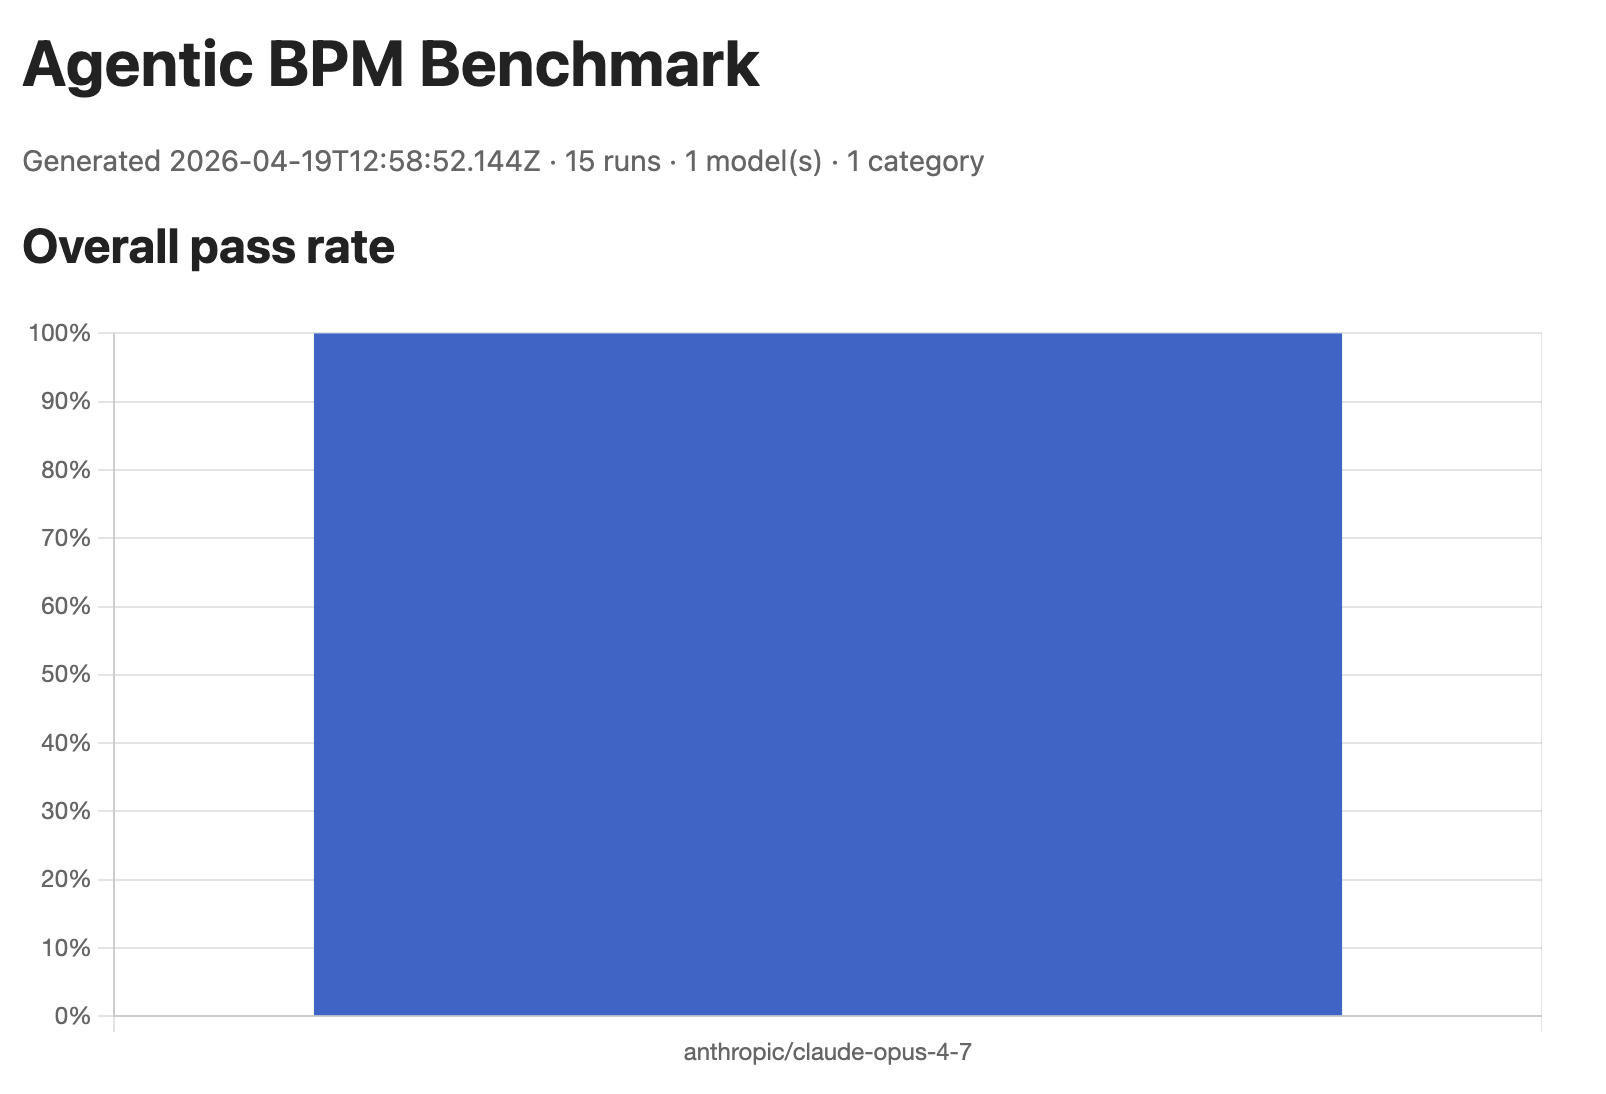
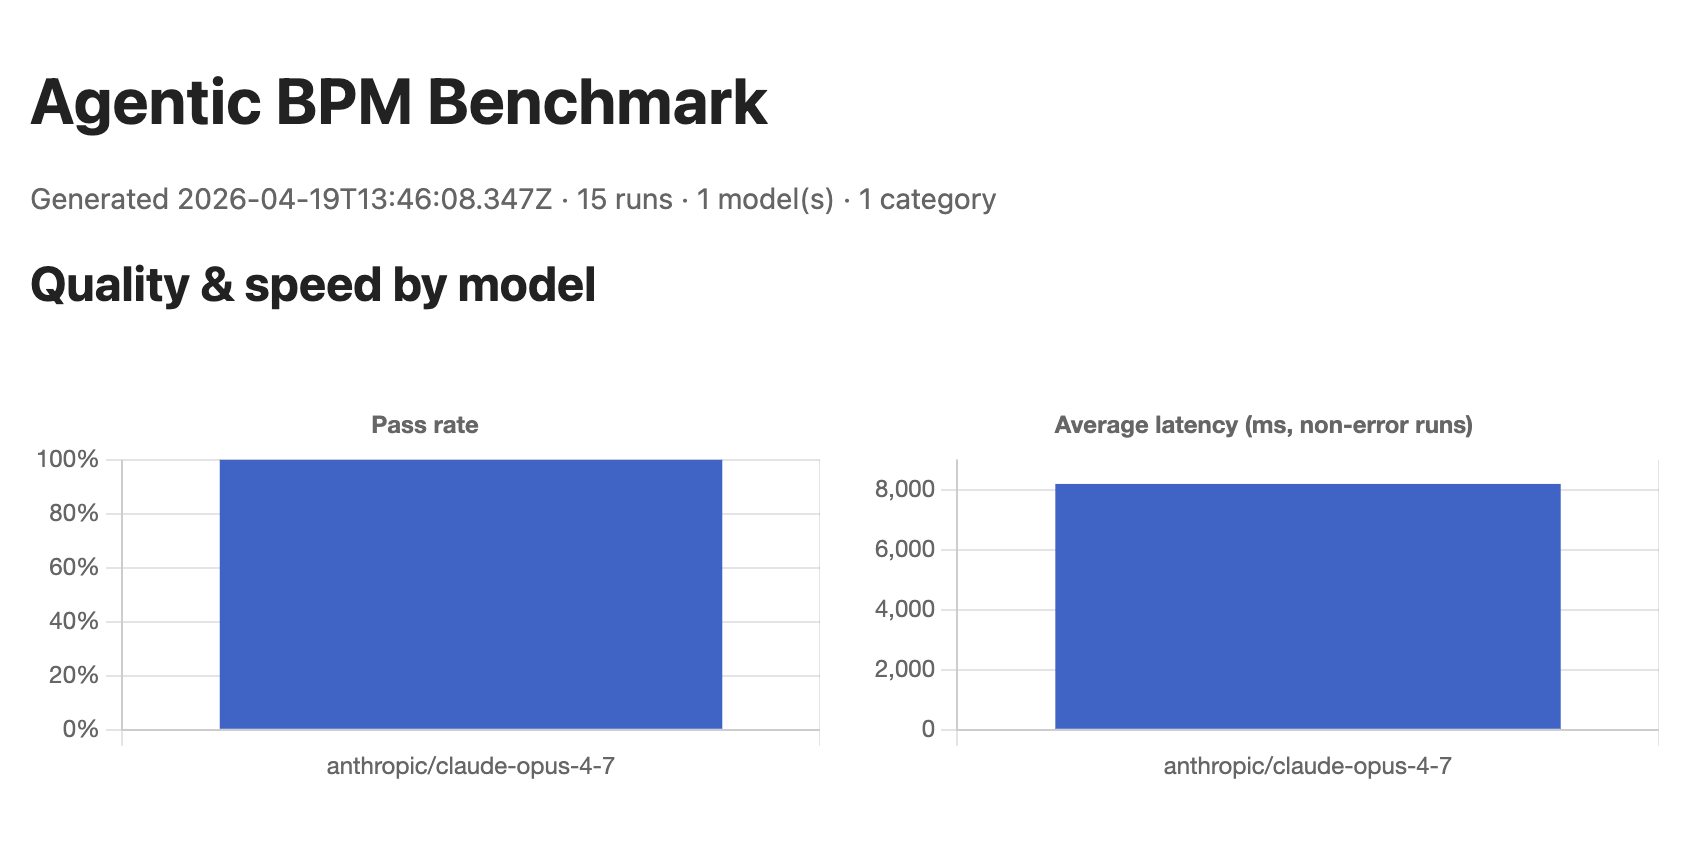
Latency and token stats added to benchmark.

diff --git a/src/report.ts b/src/report.ts
@@ -1,17 +1,33 @@
 import { writeFile } from "node:fs/promises";
 import type { RunResult } from "./runner.js";
 
+export interface LatencyStats {
+  avgMs: number;
+  p50Ms: number;
+  maxMs: number;
+  sampleSize: number; // successful (non-error) runs only
+}
+
 export interface OverallRow {
   model: string;
-  passRate: number;
-  avgLatencyMs: number;
   count: number;
+  passRate: number;
+  errorCount: number;
+  latency: LatencyStats;
+  totalInputTokens: number;
+  totalOutputTokens: number;
+  avgTokensPerCase: { input: number; output: number };
 }
 
 export interface CategoryRow {
   category: string;
   categoryName: string;
-  rows: Array<{ model: string; passRate: number; count: number }>;
+  rows: Array<{
+    model: string;
+    count: number;
+    passRate: number;
+    latency: LatencyStats;
+  }>;
 }
 
 export interface Summary {
@@ -37,24 +53,58 @@ export function summarize(results: RunResult[]): Summary {
     byCategory.set(r.category.id, catBucket);
   }
 
-  const overall: OverallRow[] = [...byModel.entries()].map(([model, rs]) => ({
-    model,
-    passRate: rs.filter((r) => r.pass).length / rs.length,
-    avgLatencyMs: rs.reduce((s, r) => s + r.latencyMs, 0) / rs.length,
-    count: rs.length,
-  }));
+  const overall: OverallRow[] = [...byModel.entries()].map(([model, rs]) => {
+    const successful = rs.filter((r) => !r.error);
+    const errors = rs.length - successful.length;
+    const totalInput = rs.reduce((s, r) => s + (r.inputTokens ?? 0), 0);
+    const totalOutput = rs.reduce((s, r) => s + (r.outputTokens ?? 0), 0);
+    return {
+      model,
+      count: rs.length,
+      passRate: rs.filter((r) => r.pass).length / rs.length,
+      errorCount: errors,
+      latency: latencyStats(successful.map((r) => r.latencyMs)),
+      totalInputTokens: totalInput,
+      totalOutputTokens: totalOutput,
+      avgTokensPerCase: {
+        input: rs.length ? totalInput / rs.length : 0,
+        output: rs.length ? totalOutput / rs.length : 0,
+      },
+    };
+  });
 
   const perCategory: CategoryRow[] = [...byCategory.entries()].map(([id, bucket]) => ({
     category: id,
     categoryName: bucket.name,
-    rows: [...bucket.byModel.entries()].map(([model, rs]) => ({
-      model,
-      passRate: rs.filter((r) => r.pass).length / rs.length,
-      count: rs.length,
-    })),
+    rows: [...bucket.byModel.entries()].map(([model, rs]) => {
+      const successful = rs.filter((r) => !r.error);
+      return {
+        model,
+        count: rs.length,
+        passRate: rs.filter((r) => r.pass).length / rs.length,
+        latency: latencyStats(successful.map((r) => r.latencyMs)),
+      };
+    }),
   }));
 
   return { overall, perCategory };
+}
+
+function latencyStats(samplesMs: number[]): LatencyStats {
+  if (samplesMs.length === 0) {
+    return { avgMs: 0, p50Ms: 0, maxMs: 0, sampleSize: 0 };
+  }
+  const sorted = [...samplesMs].sort((a, b) => a - b);
+  const avg = sorted.reduce((s, v) => s + v, 0) / sorted.length;
+  const p50 = percentile(sorted, 0.5);
+  const max = sorted[sorted.length - 1] ?? 0;
+  return { avgMs: avg, p50Ms: p50, maxMs: max, sampleSize: sorted.length };
+}
+
+function percentile(sorted: number[], p: number): number {
+  if (sorted.length === 0) return 0;
+  const idx = Math.min(sorted.length - 1, Math.floor(p * sorted.length));
+  return sorted[idx] ?? 0;
 }
 
 export async function writeJsonResults(path: string, results: RunResult[]): Promise<void> {
@@ -80,6 +130,8 @@ function renderHtml(results: RunResult[], summary: Summary): string {
   h1 { margin-top: 0; }
   .meta { color: #666; font-size: .9rem; }
   .chart { max-width: 760px; margin: 1.25rem 0; }
+  .charts-2col { display: grid; grid-template-columns: 1fr 1fr; gap: 1.5rem; }
+  @media (max-width: 820px) { .charts-2col { grid-template-columns: 1fr; } }
   table { border-collapse: collapse; width: 100%; font-size: .88rem; margin: 1rem 0; }
   th, td { border: 1px solid #ddd; padding: .4rem .55rem; text-align: left; vertical-align: top; }
   th { background: #f4f4f6; position: sticky; top: 0; }
@@ -88,17 +140,50 @@ function renderHtml(results: RunResult[], summary: Summary): string {
   tr.err  td:first-child { color: #a07000; font-weight: 600; }
   details > summary { cursor: pointer; color: #2255aa; }
   pre { white-space: pre-wrap; background: #f7f7f9; padding: .5rem; border-radius: 4px; margin: .25rem 0; font-size: .78rem; }
+  .num { text-align: right; font-variant-numeric: tabular-nums; }
 </style>
 </head>
 <body>
 <h1>Agentic BPM Benchmark</h1>
 <p class="meta">Generated ${escapeHtml(new Date().toISOString())} · ${results.length} runs · ${models.length} model(s) · ${categoryCount} categor${categoryCount === 1 ? "y" : "ies"}</p>
 
-<h2>Overall pass rate</h2>
-<div class="chart"><canvas id="overall"></canvas></div>
+<h2>Quality &amp; speed by model</h2>
+<div class="charts-2col">
+  <div class="chart"><canvas id="overall"></canvas></div>
+  <div class="chart"><canvas id="latency"></canvas></div>
+</div>
 
-<h2>Pass rate per category</h2>
-<div class="chart"><canvas id="perCategory"></canvas></div>
+<h2>Quality vs. speed</h2>
+<p class="meta">Each point is one model. Top-left is best (high pass rate, low latency). Latency excludes error rows.</p>
+<div class="chart"><canvas id="scatter"></canvas></div>
+
+<h2>Per category</h2>
+<div class="charts-2col">
+  <div class="chart"><canvas id="perCategoryPass"></canvas></div>
+  <div class="chart"><canvas id="perCategoryLatency"></canvas></div>
+</div>
+
+<h2>Model summary</h2>
+<table>
+<thead><tr>
+  <th>Model</th><th class="num">Pass rate</th><th class="num">Errors</th>
+  <th class="num">Avg ms</th><th class="num">p50 ms</th><th class="num">Max ms</th>
+  <th class="num">Tokens in (total)</th><th class="num">Tokens out (total)</th>
+  <th class="num">Avg tokens/case (in/out)</th>
+</tr></thead>
+<tbody>
+${summary.overall.map((row) => `<tr>
+  <td>${escapeHtml(row.model)}</td>
+  <td class="num">${(row.passRate * 100).toFixed(1)}%</td>
+  <td class="num">${row.errorCount}</td>
+  <td class="num">${row.latency.avgMs.toFixed(0)}</td>
+  <td class="num">${row.latency.p50Ms.toFixed(0)}</td>
+  <td class="num">${row.latency.maxMs.toFixed(0)}</td>
+  <td class="num">${row.totalInputTokens}</td>
+  <td class="num">${row.totalOutputTokens}</td>
+  <td class="num">${row.avgTokensPerCase.input.toFixed(0)} / ${row.avgTokensPerCase.output.toFixed(0)}</td>
+</tr>`).join("\n")}
+</tbody></table>
 
 <h2>All runs</h2>
 <table>
@@ -113,7 +198,9 @@ ${results.map(renderRow).join("\n")}
 <script>
 const summary = ${JSON.stringify(summary)};
 const palette = ["#3366cc","#dc3912","#ff9900","#109618","#990099","#0099c6","#dd4477","#66aa00"];
+const pctAxis = { beginAtZero: true, max: 1, ticks: { callback: v => (v * 100).toFixed(0) + "%" } };
 
+// Overall pass rate
 new Chart(document.getElementById("overall"), {
   type: "bar",
   data: {
@@ -125,14 +212,59 @@ new Chart(document.getElementById("overall"), {
     }]
   },
   options: {
-    plugins: { legend: { display: false } },
-    scales: { y: { beginAtZero: true, max: 1, ticks: { callback: v => (v * 100).toFixed(0) + "%" } } }
+    plugins: { legend: { display: false }, title: { display: true, text: "Pass rate" } },
+    scales: { y: pctAxis }
   }
 });
 
+// Overall avg latency
+new Chart(document.getElementById("latency"), {
+  type: "bar",
+  data: {
+    labels: summary.overall.map(o => o.model),
+    datasets: [{
+      label: "Avg latency (ms)",
+      data: summary.overall.map(o => Math.round(o.latency.avgMs)),
+      backgroundColor: summary.overall.map((_, i) => palette[i % palette.length]),
+    }]
+  },
+  options: {
+    plugins: { legend: { display: false }, title: { display: true, text: "Average latency (ms, non-error runs)" } },
+    scales: { y: { beginAtZero: true } }
+  }
+});
+
+// Quality vs. speed scatter
+new Chart(document.getElementById("scatter"), {
+  type: "scatter",
+  data: {
+    datasets: summary.overall.map((o, i) => ({
+      label: o.model,
+      data: [{ x: o.latency.avgMs, y: o.passRate }],
+      backgroundColor: palette[i % palette.length],
+      pointRadius: 8,
+      pointHoverRadius: 10,
+    })),
+  },
+  options: {
+    plugins: {
+      tooltip: {
+        callbacks: {
+          label: ctx => ctx.dataset.label + ": " + (ctx.parsed.y * 100).toFixed(1) + "% @ " + Math.round(ctx.parsed.x) + "ms"
+        }
+      }
+    },
+    scales: {
+      x: { title: { display: true, text: "Avg latency (ms, non-error)" }, beginAtZero: true },
+      y: { title: { display: true, text: "Pass rate" }, ...pctAxis }
+    }
+  }
+});
+
+// Per-category pass rate
 const categoryLabels = summary.perCategory.map(c => c.categoryName);
 const allModels = [...new Set(summary.perCategory.flatMap(c => c.rows.map(r => r.model)))];
-new Chart(document.getElementById("perCategory"), {
+new Chart(document.getElementById("perCategoryPass"), {
   type: "bar",
   data: {
     labels: categoryLabels,
@@ -146,7 +278,28 @@ new Chart(document.getElementById("perCategory"), {
     }))
   },
   options: {
-    scales: { y: { beginAtZero: true, max: 1, ticks: { callback: v => (v * 100).toFixed(0) + "%" } } }
+    plugins: { title: { display: true, text: "Pass rate per category" } },
+    scales: { y: pctAxis }
+  }
+});
+
+// Per-category avg latency
+new Chart(document.getElementById("perCategoryLatency"), {
+  type: "bar",
+  data: {
+    labels: categoryLabels,
+    datasets: allModels.map((m, i) => ({
+      label: m,
+      backgroundColor: palette[i % palette.length],
+      data: summary.perCategory.map(c => {
+        const row = c.rows.find(r => r.model === m);
+        return row ? Math.round(row.latency.avgMs) : 0;
+      })
+    }))
+  },
+  options: {
+    plugins: { title: { display: true, text: "Avg latency per category (ms)" } },
+    scales: { y: { beginAtZero: true } }
   }
 });
 </script>
@@ -165,7 +318,7 @@ function renderRow(r: RunResult): string {
   <td>${escapeHtml(r.connector.provider)}/${escapeHtml(r.connector.name)}</td>
   <td>${escapeHtml(r.category.name)}</td>
   <td><strong>${escapeHtml(r.caseId)}</strong><br/><small>${escapeHtml(r.caseDescription)}</small></td>
-  <td>${r.latencyMs}ms</td>
+  <td class="num">${r.latencyMs}ms</td>
   <td>${escapeHtml(tokens)}</td>
   <td>${escapeHtml(r.notes ?? r.error ?? "")}</td>
   <td><details><summary>show</summary><pre>${escapeHtml(r.rawOutput ?? "")}</pre></details></td>

diff --git a/src/index.ts b/src/index.ts
@@ -126,8 +126,14 @@ async function main(): Promise<void> {
 
   console.log("\n=== Summary ===");
   for (const row of summarize(results).overall) {
+    const errTail = row.errorCount ? ` [${row.errorCount} errors]` : "";
+    const lat = row.latency;
+    const toks = `${row.totalInputTokens}in/${row.totalOutputTokens}out`;
     console.log(
-      `  ${row.model}: ${(row.passRate * 100).toFixed(1)}% pass (${row.count} cases, avg ${row.avgLatencyMs.toFixed(0)}ms)`,
+      `  ${row.model}: ${(row.passRate * 100).toFixed(1)}% pass` +
+        ` · ${row.count} cases${errTail}` +
+        ` · latency avg ${lat.avgMs.toFixed(0)}ms p50 ${lat.p50Ms.toFixed(0)}ms max ${lat.maxMs.toFixed(0)}ms` +
+        ` · tokens ${toks}`,
     );
   }
   console.log("\nWrote results/run-*.json and report.html");
